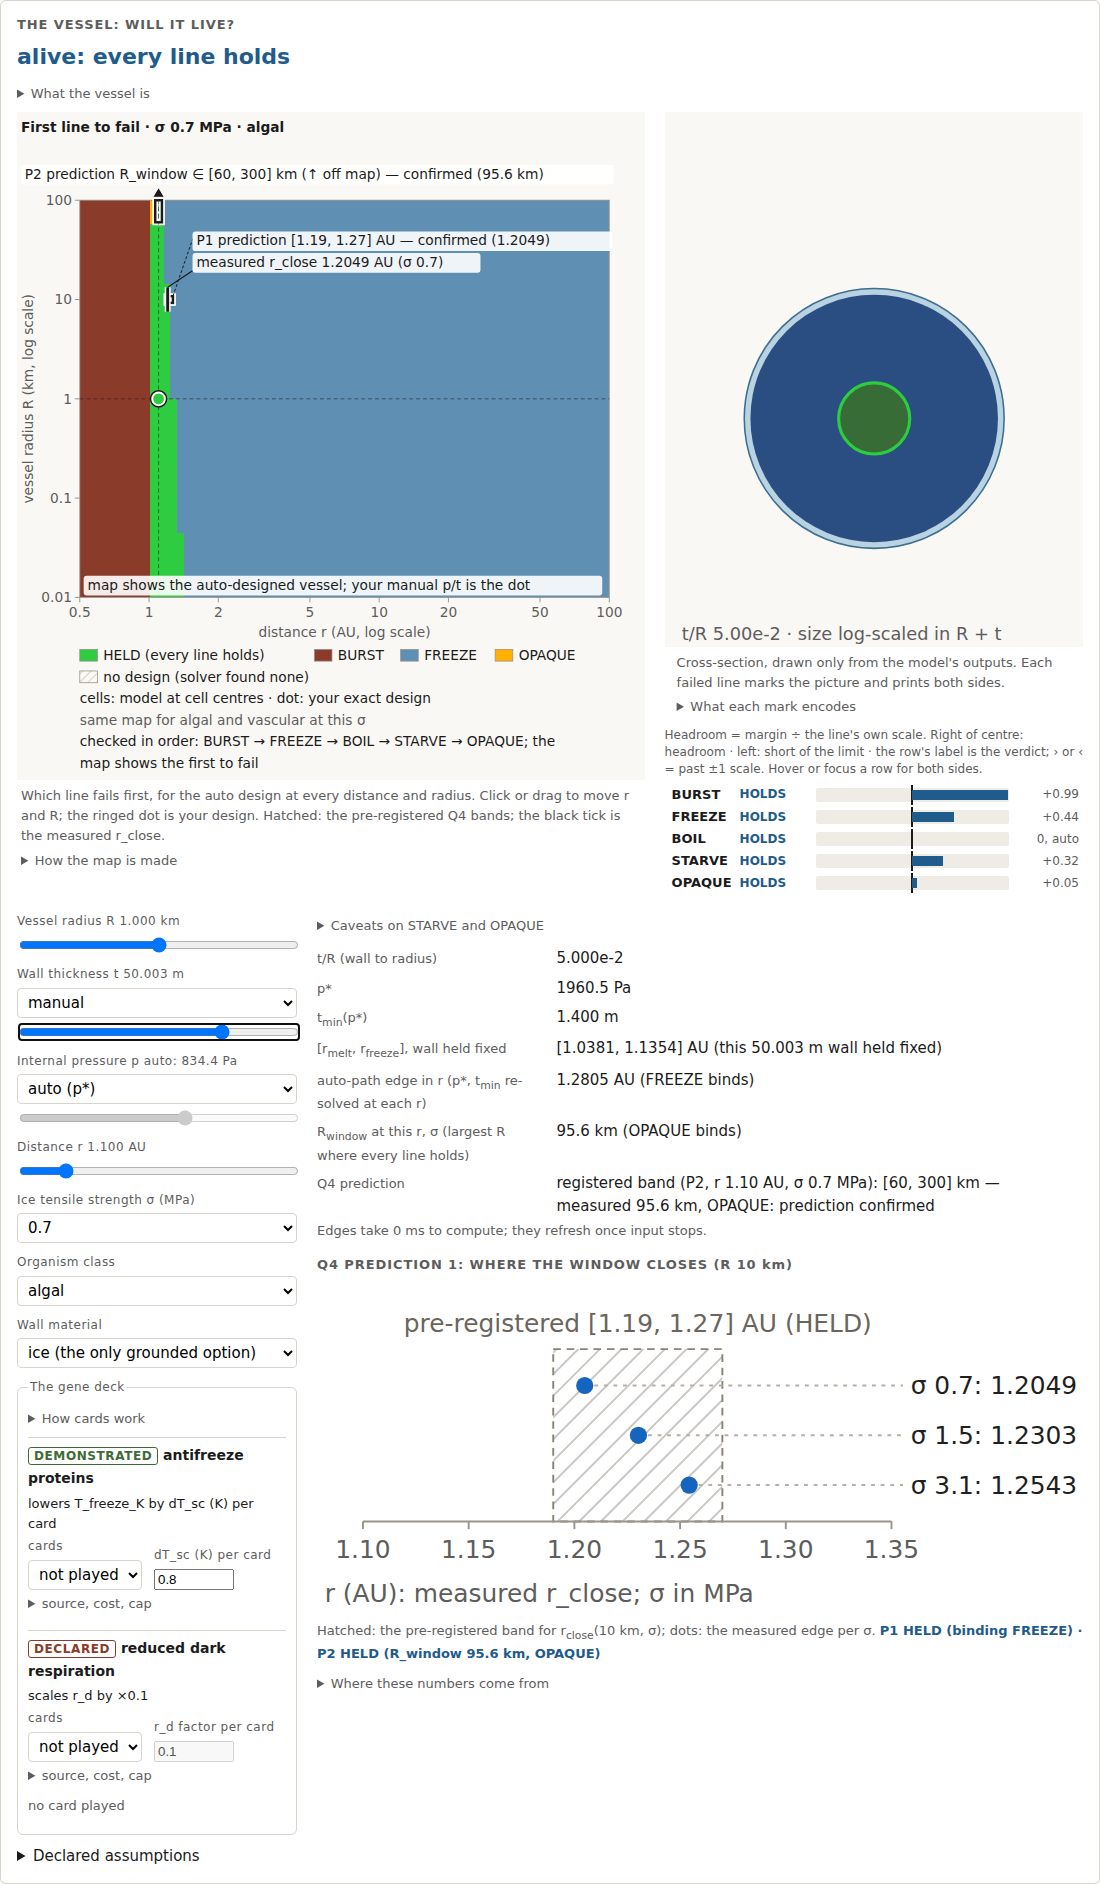
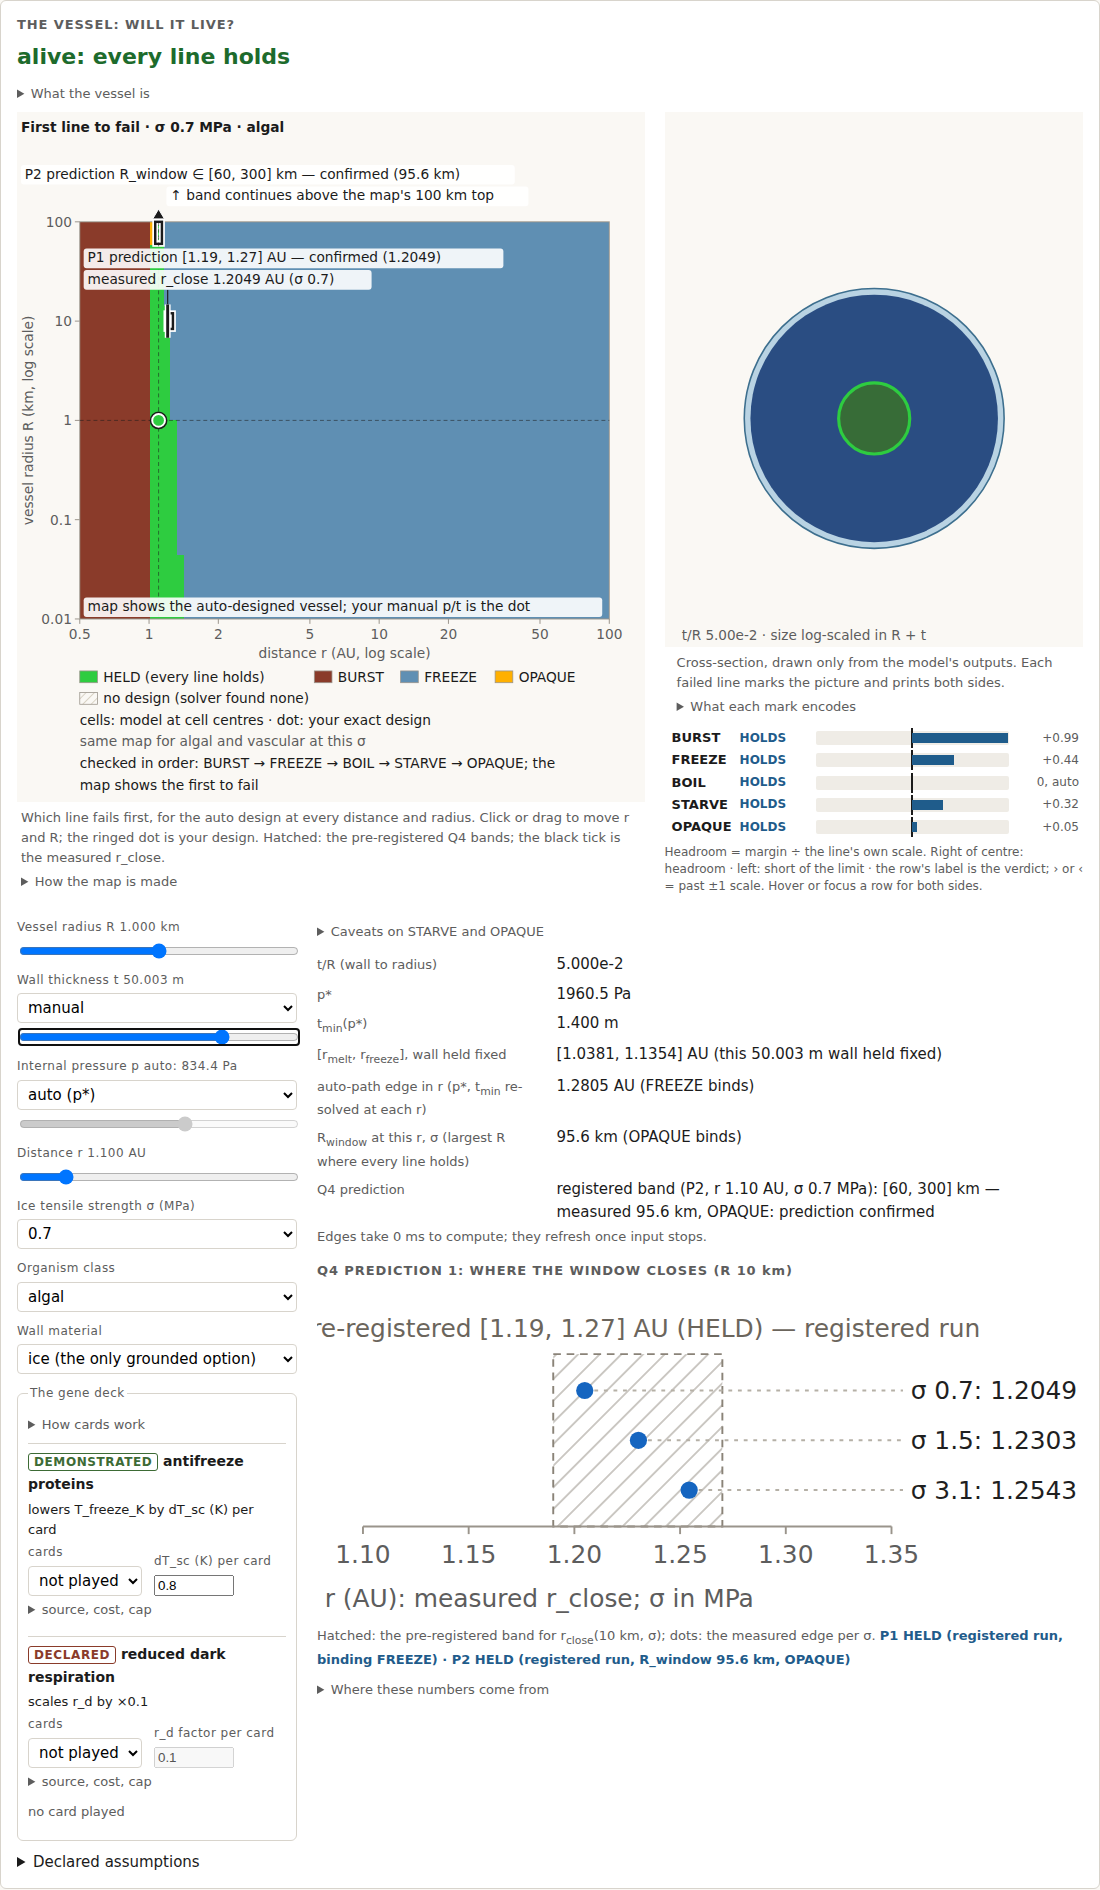
critic round 2 polish: passing verdict in dark HELD green; drawn: X (first to fail) replaces the repeated verdict; P2 label literal (band continues above the map's 100 km top, its own note above the frame); P1 box and r_close tick drawn over the dot, band labels over the crosshair and under the dot;

diff --git a/web/mapview.js b/web/mapview.js
@@ -27,9 +27,10 @@
   var NS = "http://www.w3.org/2000/svg";
   var W = 640,
     L = 64, // frame left: y tick labels and the rotated axis title sit left of it
-    T = 90, // frame top: the title line, the status line (live recompute), then the P2 label line
+    T = 112, // frame top: title, status line (live recompute), P2 label, P2 off-map note
     STATUS_Y = 44, // baseline of the recompute status, above the frame, never over the cells
-    P2_Y = 68, // baseline of the P2 label: its plate ends 16 px above the frame, clear of any dot mark
+    P2_Y = 68, // baseline of the P2 label
+    P2_NOTE_Y = 90, // baseline of the P2 off-map note: its plate ends 16 px above the frame, clear of any dot mark
     PW = 540,
     PH = 405, // 80 × 60 cells at 6.75 px square
     FS = 14, // >= 12 px on screen at the page's map width (smoke asserts it)
@@ -216,36 +217,37 @@
     el("rect", Object.assign({ id: id + "-halo", fill: "none", stroke: "#ffffff", "stroke-width": 6 }, box), g);
     el("rect", Object.assign({ id: id, fill: "url(#map-hatch-band)", stroke: INK, "stroke-width": 2.5 }, box), g);
   }
-  function drawBands(g, sigma_MPa, off) {
-    var dag = off ? " †" : "";
+  // g: the band layer; labels: over the dot's crosshair, under the dot; top: over the dot, so the
+  // registered marks stay visible where the dot sits on them
+  function drawBands(g, labels, top, sigma_MPa, off) {
+    var dag = off ? " · registered run †" : "";
     if (!bands) throw new Error("mapview: bands not set (verdict.js calls DysonMapView.setBands)");
     var p1 = bands.P1;
     var x0 = X(lg(p1.band_au[0])), x1 = X(lg(p1.band_au[1]));
     var yc = Y(lg(p1.R_km * 1000));
-    var h = PH / (NRR - 1);
-    outline(g, "map-p1", { x: x0, y: yc - h / 2, width: x1 - x0, height: h });
+    var h = Math.max(PH / (NRR - 1), 16); // the row, drawn at least 16 tall so the mark reads as a box
+    outline(top, "map-p1", { x: x0, y: yc - h / 2, width: x1 - x0, height: h });
     // the measured edge for this slice's sigma (the committed Q4 run), a tick across the row
     var k = -1;
     p1.sigma_MPa.forEach(function (s, n) { if (Math.abs(s - sigma_MPa) < 1e-9) k = n; });
     if (k < 0) throw new Error("mapview: no measured r_close for sigma " + sigma_MPa);
     var xr = X(lg(p1.r_close_au[k]));
-    var ly = yc - h / 2 - 30, lx = x1 + 24; // label plate: above the row, right of the band
-    el("line", { x1: xr, y1: yc - h / 2 - 9, x2: xr, y2: yc + h / 2 + 9, stroke: "#ffffff", "stroke-width": 6 }, g);
+    var ly = yc - h / 2 - 30, lx = L + 8; // label plates: above the row, from the frame's left edge
+    el("line", { x1: xr, y1: yc - h / 2 - 9, x2: xr, y2: yc + h / 2 + 9, stroke: "#ffffff", "stroke-width": 6 }, top);
     el("line", { id: "map-rclose", x1: xr, y1: yc - h / 2 - 9, x2: xr, y2: yc + h / 2 + 9, stroke: INK,
-      "stroke-width": 3 }, g);
-    el("line", { x1: xr, y1: yc - h / 2 - 9, x2: lx - 4, y2: ly + 4, stroke: INK, "stroke-width": 1.2 }, g);
-    haloText(g, { id: "map-rclose-label", x: lx, y: ly },
+      "stroke-width": 3 }, top);
+    el("line", { x1: xr, y1: yc - h / 2 - 9, x2: xr, y2: ly + 6, stroke: INK, "stroke-width": 1.2 }, g);
+    haloText(labels, { id: "map-rclose-label", x: lx, y: ly },
       "measured r_close " + p1.r_close_au[k].toFixed(4) + " AU (σ " + sigma_MPa + ")" + dag);
-    el("line", { x1: x1, y1: yc - h / 2, x2: lx - 4, y2: ly - FS - 14, stroke: INK, "stroke-width": 1,
-      "stroke-dasharray": "3 2" }, g);
-    haloText(g, { id: "map-p1-label", x: lx, y: ly - FS - 8 },
+    haloText(labels, { id: "map-p1-label", x: lx, y: ly - FS - 8 },
       "P1 prediction [" + p1.band_au[0] + ", " + p1.band_au[1] + "] AU — " + outcome(p1.verdict) +
         " (" + p1.r_close_au[k].toFixed(4) + ")" + dag);
     var p2 = bands.P2;
     if (Math.abs(sigma_MPa - p2.sigma_MPa) > 1e-9) return;
     var xc = X(lg(p2.r_au)), w = PW / (NR - 1);
-    var top = Math.max(T, Y(lg(p2.band_km[1] * 1000))), bot = Y(lg(p2.band_km[0] * 1000));
-    outline(g, "map-p2", { x: xc - w / 2, y: top, width: w, height: bot - top });
+    var bot = Y(lg(p2.band_km[0] * 1000));
+    var yt = Math.max(T, Y(lg(p2.band_km[1] * 1000)));
+    outline(g, "map-p2", { x: xc - w / 2, y: yt, width: w, height: bot - yt });
     var clipped = p2.band_km[1] * 1000 > Math.pow(10, GRR[1]);
     if (clipped) {
       // the band runs above the map's top edge: an arrow out of the frame at its column
@@ -253,13 +255,16 @@
         points: [[xc, T - 13], [xc - 6, T - 3], [xc + 6, T - 3]].map(function (q) { return q.join(","); }).join(" ") }, g);
       el("title", {}, m, "P2 band continues to " + p2.band_km[1] + " km, above the map's " +
         Math.pow(10, GRR[1] - 3) + " km top");
+      haloText(g, { id: "map-p2-offmap-note", x: xc + 12, y: P2_NOTE_Y },
+        "↑ band continues above the map's " + Math.pow(10, GRR[1] - 3) + " km top");
     }
     haloText(g, { id: "map-p2-label", x: 8, y: P2_Y },
-      "P2 prediction R_window ∈ [" + p2.band_km[0] + ", " + p2.band_km[1] + "] km" + (clipped ? " (↑ off map)" : "") +
+      "P2 prediction R_window ∈ [" + p2.band_km[0] + ", " + p2.band_km[1] + "] km" +
         " — " + outcome(p2.verdict) + " (" + p2.measured_km + " km)" + dag);
   }
 
-  function drawDot(g, state, slice) {
+  // cross: the crosshair layer, under the band labels; g: the dot's layer, over them
+  function drawDot(g, cross, state, slice) {
     var lr = lg(state.r), lR = lg(state.R);
     var loX = lr <= GR[0] + EDGE_TOL, hiX = lr >= GR[1] - EDGE_TOL;
     var loY = lR <= GRR[0] + EDGE_TOL, hiY = lR >= GRR[1] - EDGE_TOL;
@@ -268,9 +273,9 @@
     var clamped = loX || hiX || loY || hiY;
     var c = cellAt(state.r, state.R);
     el("line", { x1: L, y1: cy, x2: L + PW, y2: cy, stroke: INK, "stroke-opacity": 0.55, "stroke-width": 1,
-      "stroke-dasharray": "4 3", "data-mark": "crosshair" }, g);
+      "stroke-dasharray": "4 3", "data-mark": "crosshair" }, cross);
     el("line", { x1: cx, y1: T, x2: cx, y2: T + PH, stroke: INK, "stroke-opacity": 0.55, "stroke-width": 1,
-      "stroke-dasharray": "4 3", "data-mark": "crosshair" }, g);
+      "stroke-dasharray": "4 3", "data-mark": "crosshair" }, cross);
     if (!(state.verdict in PAL)) throw new Error("mapview: dot has no verdict class (" + state.verdict + ")");
     // the dot is the exact design: filled with the verdict's class, ringed dark over white so it
     // reads on any cell colour; the nearest cell's class is kept apart as data-cell-class
@@ -376,8 +381,11 @@
     var off = offRegistered(state);
     var rows = legend(el("g", { id: "map-legend" }, svg), slice, H0, state.sigma_MPa, off, sameMap(state));
     layers.bands = el("g", { id: "map-bands" }, svg);
-    drawBands(layers.bands, state.sigma_MPa, off);
+    layers.cross = el("g", { id: "map-cross" }, svg);
+    layers.labels = el("g", { id: "map-band-labels" }, svg);
     layers.over = el("g", { id: "map-over" }, svg);
+    layers.top = el("g", { id: "map-top" }, svg);
+    drawBands(layers.bands, layers.labels, layers.top, state.sigma_MPa, off);
     el("rect", { id: "map-hit", x: L, y: T, width: PW, height: PH, fill: "transparent",
       style: "cursor: crosshair" }, svg);
     svg.setAttribute("viewBox", "0 0 " + W + " " + (H0 + (rows - 1) * KEY_ROW + 12));
@@ -443,7 +451,8 @@
     built.layers.cells.setAttribute("data-source", stale ? "stale" : src.kind === "live" ? src.level : "precomputed");
     built.layers.title.textContent = titleText(state);
     clear(built.layers.over);
-    drawDot(built.layers.over, state, stale ? null : slice);
+    clear(built.layers.cross);
+    drawDot(built.layers.over, built.layers.cross, state, stale ? null : slice);
     drawStatus(built.layers.over, state, stale);
   }
 

diff --git a/web/index.html b/web/index.html
@@ -89,9 +89,11 @@
       /* headroom strip: one bar per line (verdict.js drawBars) */
       .headroom { margin-top: 10px; font-size: 13px; }
       .vessel > .vsummary { font-size: 22px; line-height: 1.3; margin: 2px 0 8px; }
+      /* a passing verdict: a dark variant of the map's HELD green, never the FREEZE blue */
+      .vessel > .vsummary.verdict-held { color: #1d6b2c; }
       .headroom #v-error:empty { display: none; }
       .headroom[data-error="true"] .hr-row { opacity: 0.4; }
-      .hr-key { color: var(--muted); font-size: 12px; line-height: 1.4; margin: 0 0 6px; }
+      .hr-key { color: var(--muted); font-size: 12px; line-height: 1.4; margin: 6px 0 0; }
       .hr-row { position: relative; display: grid; grid-template-columns: 62px 70px minmax(0, 1fr) 64px;
         gap: 6px; align-items: center; padding: 1px 4px; border-left: 3px solid transparent; border-radius: 3px; }
       .hr-row:hover, .hr-row:focus { background: #f1eee8; outline: none; }
@@ -178,8 +180,6 @@
             </figure>
             <div class="headroom" id="headroom">
               <p id="v-error" class="verdict-failed" role="alert"></p>
-              <p class="hr-key">Headroom = margin ÷ the line's own scale. Right of centre: headroom · left: short of
-                the limit · the row's label is the verdict; › or ‹ = past ±1 scale. Hover or focus a row for both sides.</p>
               <div class="hr-row" id="hr-BURST" data-line="BURST" tabindex="0" role="group" aria-labelledby="hr-BURST-name">
                 <span class="hr-name" id="hr-BURST-name">BURST</span>
                 <span class="hr-status" id="v-status-BURST"></span>
@@ -215,6 +215,8 @@
                 <span class="hr-val" id="hr-OPAQUE-val"></span>
                 <span class="hr-detail"><span id="v-cmp-OPAQUE"></span><br />margin <span class="num" id="v-margin-OPAQUE"></span><br /><span id="hr-OPAQUE-scale"></span></span>
               </div>
+              <p class="hr-key">Headroom = margin ÷ the line's own scale. Right of centre: headroom · left: short of
+                the limit · the row's label is the verdict; › or ‹ = past ±1 scale. Hover or focus a row for both sides.</p>
             </div>
           </div>
         </div>

diff --git a/web/picture.js b/web/picture.js
@@ -31,6 +31,8 @@
     MIN_BAND_PX = 3,
     FS = 17, // >= 12 px on screen at the page's figure width (smoke asserts it)
     LH = 19,
+    NOTE_FS = 13, // drawing notes (clamp, scale): quieter than the call-outs, still >= 12 px on screen
+    NOTE_LH = 16,
     PLATE_PAD = 10, // text inset inside a plate
     ORG_R = 34, // the organism disc: one size and one centre in every state
     KEEP_PAD = 3, // units every mark keeps clear of a plate
@@ -453,9 +455,10 @@
       var tip = pt(ro, (3 * Math.PI) / 4);
       el("line", { id: "pic-clamp-leader", x1: tip[0].toFixed(1), y1: tip[1].toFixed(1), x2: 40, y2: CLAMP_Y - 4,
         stroke: MUTED, "stroke-width": 1.2 }, svg);
-      var ct = el("text", { id: "pic-clamp", x: 16, y: CLAMP_Y + FS, "font-size": FS, fill: MUTED }, svg); // a drawing note, not a verdict
+      // a drawing note, not a verdict: quiet (NOTE_FS, grey), and the only place t/R is printed
+      var ct = el("text", { id: "pic-clamp", x: 16, y: CLAMP_Y + FS, "font-size": NOTE_FS, fill: MUTED }, svg);
       el("tspan", { x: 16, dy: 0 }, ct, "wall clamped to " + MIN_BAND_PX + " px;");
-      el("tspan", { x: 16, dy: LH }, ct,
+      el("tspan", { x: 16, dy: NOTE_LH }, ct,
         " true t/R " + fmtE(t / R) + " would draw " +
           (ro - riTrue < 0.005 ? "≪ 1 px" : (ro - riTrue).toFixed(2) + " px")); // never "0.00 px"
     }
@@ -466,8 +469,8 @@
       el("tspan", { x: 16, dy: 0 }, kt, "amber arc: f_photon reaching in;");
       el("tspan", { x: 16, dy: LH }, kt, " white tick: declared floor");
     }
-    el("text", { x: 16, y: H - 6, "font-size": FS, fill: MUTED }, svg,
-      "t/R " + fmtE(t / R) + " · size log-scaled in R + t");
+    el("text", { x: 16, y: H - 6, "font-size": NOTE_FS, fill: MUTED }, svg,
+      (clamped ? "" : "t/R " + fmtE(t / R) + " · ") + "size log-scaled in R + t");
   }
 
   function blank(msg) {

diff --git a/web/verdict.js b/web/verdict.js
@@ -402,7 +402,7 @@
       drawBar(n, res.report.lines[n], res, bad.length > 0 && bad[0] === n);
     });
     $("v-summary").textContent = bad.length
-      ? "VIOLATED: " + bad.join(", ") + " — the picture is " + bad[0]
+      ? "VIOLATED: " + bad.join(", ") + " — drawn: " + bad[0] + " (first to fail)"
       : "alive: every line holds";
     $("v-summary").className = "vsummary " + (bad.length ? "verdict-failed" : "verdict-held");
 
@@ -635,7 +635,7 @@
     mk("rect", { id: "q4-band-rect", x: x(b[0]), y: TOP, width: x(b[1]) - x(b[0]), height: BOT - TOP,
       fill: "url(#q4hatch)", stroke: "#8a8378", "stroke-dasharray": "4 3", "stroke-width": "1" });
     mk("text", { id: "q4-band-label", x: (x(b[0]) + x(b[1])) / 2, y: TOP - 9, "text-anchor": "middle",
-      "font-size": FS, fill: "#6b655c" }, "pre-registered [" + b[0] + ", " + b[1] + "] AU (" + Q4_RESULT.P1 + ")");
+      "font-size": FS, fill: "#6b655c" }, "pre-registered [" + b[0] + ", " + b[1] + "] AU (" + Q4_RESULT.P1 + ") — registered run");
     var LX = Math.max(Rt, x(b[1])) + 10; // the label column
     Q4_RESULT.r_close_au.forEach(function (r, i) {
       var y = TOP + 6 + ROW / 2 + i * ROW;
@@ -653,8 +653,8 @@
     mk("text", { x: 4, y: BOT + 42, "font-size": FS, fill: "#5d5d5d" },
       "r (AU): measured r_close; σ in MPa");
     var v = $("q4-verdict");
-    v.textContent = "P1 " + Q4_RESULT.P1 + " (binding FREEZE) · P2 " + Q4_RESULT.P2 +
-      " (R_window " + Q4_RESULT.R_window_km.toFixed(1) + " km, OPAQUE)";
+    v.textContent = "P1 " + Q4_RESULT.P1 + " (registered run, binding FREEZE) · P2 " + Q4_RESULT.P2 +
+      " (registered run, R_window " + Q4_RESULT.R_window_km.toFixed(1) + " km, OPAQUE)";
     v.className = Q4_RESULT.P1 === "HELD" ? "verdict-held" : "verdict-failed";
   }
   drawQ4Band();

diff --git a/tests/test_site_map.py b/tests/test_site_map.py
@@ -502,3 +502,49 @@ def test_same_map_note_is_in_the_legend_not_the_title(page):
     v = page["vascular"]["map"]
     assert "same map for algal and vascular" not in text_of(need(v, "map-title"))
     assert "same map for algal and vascular" in text_of(need(v, "map-legend"))
+
+
+# (Task 5 polish) ---------------------------------------------------------------------------------
+def test_p2_off_map_note_is_literal_and_clear_of_the_dot(page):
+    hi, d = page["high"]["map"], page["defaults"]["map"]
+    assert "off map" not in text_of(need(d, "map-p2-label"))
+    note = text_of(need(d, "map-p2-offmap-note"))
+    assert "continues above" in note and "100 km" in note, note
+    for tree in (hi, d):
+        box = plate_of(tree, "map-p2-offmap-note")
+        assert not overlap(box, marks_box(tree)) and not overlap(box, plate_of(tree, "map-p2-label")), box
+        assert box[3] <= frame(tree)[1] - 15, (box, frame(tree))
+
+
+def test_registered_marks_are_drawn_above_the_dot(page):
+    for name in ("r1.21", "defaults"):
+        order = [n["attrs"].get("id") for n in walk(page[name]["map"])]
+        k = order.index("map-dot")
+        assert order.index("map-rclose") > k and order.index("map-p1") > k, (name, k)
+
+
+def test_p1_band_mark_is_at_least_12_px_tall(page):
+    a = need(page["defaults"]["map"], "map-p1")["attrs"]
+    assert float(a["height"]) >= 13, a  # 640-unit viewBox renders at ~0.98 px per unit
+
+
+def test_off_registered_labels_say_registered_run(page):
+    for name in ("card", "albedo"):
+        for i in REGISTERED_LABELS:
+            t = text_of(need(page[name]["map"], i))
+            assert t.endswith("· registered run †"), (name, i, t)
+    # positive control: at the registered inputs they do not
+    for i in REGISTERED_LABELS:
+        assert "registered run" not in text_of(need(page["defaults"]["map"], i))
+
+
+def test_crosshair_runs_under_the_band_labels_and_the_dot_over_them(page):
+    # the P1/r_close label plates span the dot's column at the defaults (1 AU): the dashed
+    # crosshair must not strike through them, and they must not hide the dot
+    for name in ("defaults", "card", "r1.21"):
+        nodes = list(walk(page[name]["map"]))
+        order = [n["attrs"].get("id") for n in nodes]
+        cross = [k for k, n in enumerate(nodes) if n["attrs"].get("data-mark") == "crosshair"]
+        assert len(cross) == 2, (name, len(cross))  # positive control: the crosshair is drawn
+        lab = min(order.index("map-p1-label"), order.index("map-rclose-label"))
+        assert max(cross) < lab < order.index("map-dot"), (name, cross, lab, order.index("map-dot"))

diff --git a/tools/smoke_page.py b/tools/smoke_page.py
@@ -1057,6 +1057,16 @@ def exercise_headroom(page, label: str, shoot: bool) -> None:
                           m: m.getBoundingClientRect().top}; }"""
     )
     check(vs["px"] >= 20 and vs["s"] <= vs["m"], f"[{label}] verdict line above the map at heading size: {vs}")
+    # (Task 5 polish) a passing verdict is a dark green, not the FREEZE blue; the bar key follows its bars
+    col = page.evaluate(
+        """() => { const c = getComputedStyle(document.getElementById('v-summary')).color.match(/\\d+/g).map(Number);
+                  const k = document.querySelector('#headroom .hr-key').getBoundingClientRect().top;
+                  const b = document.getElementById('hr-OPAQUE').getBoundingClientRect().bottom;
+                  return {rgb: c.slice(0, 3), key: k, bars: b}; }"""
+    )
+    r_, g_, b_ = col["rgb"]
+    check(g_ > r_ + 30 and g_ > b_ + 30 and g_ < 140, f"[{label}] passing verdict line is dark green: rgb {col['rgb']}")
+    check(col["key"] >= col["bars"], f"[{label}] headroom key sits below its bars: {col}")
     if shoot:
         page.locator("#vessel").evaluate("e => e.scrollIntoView({block: 'start'})")
         page.screenshot(path=str(SHOT_DIR / "task-4-shot-defaults.png"))
@@ -1116,6 +1126,8 @@ def exercise_q4_band(page, label: str) -> None:
     check(f"({want.get('P1')})" in m["label"], f"[{label}] Q4 band label {m['label']!r} carries RESULTS.md P1 {want.get('P1')}")
     check(f"P1 {want.get('P1')}" in m["verdict"] and f"P2 {want.get('P2')}" in m["verdict"],
           f"[{label}] Q4 verdict line {m['verdict']!r} matches RESULTS.md {want}")
+    check(m["verdict"].count("(registered run") == 2 and "registered run" in m["label"],
+          f"[{label}] Q4 HELD words say they are the registered run: {m['verdict']!r} / {m['label']!r}")
     inside = [m["x0"] <= d["x"] <= m["x1"] for d in m["dots"]]
     check(inside == [True] * 3 if want.get("P1") == "HELD" else not all(inside),
           f"[{label}] measured marks sit where the verdict says relative to the band: {inside}")

diff --git a/tests/test_site_picture.py b/tests/test_site_picture.py
@@ -251,3 +251,18 @@ def test_clamp_note_is_neutral_and_says_sub_pixel_honestly(page):
     assert re.search(r"would draw 0\.\d\d px", text_of(d)), text_of(d)
     t = text_of(far)
     assert "would draw ≪ 1 px" in t and "0.00 px" not in t, t
+
+
+def test_clamp_note_prints_t_over_r_once_and_quietly(page):
+    # (Task 5 polish) the clamp note carries t/R; the footer does not repeat it; note at 13 px
+    for name in ("defaults", "far"):
+        pic = page[name]["pic"]
+        t = " ".join(text_of(n) for n in walk(pic) if n["tag"] == "text")  # what is drawn, not <title>
+        clamp = by_id(pic, "pic-clamp")
+        assert clamp is not None, name
+        m = re.search(r"t/R (\d\.\d\de-?\d+)", text_of(clamp))
+        assert m, text_of(clamp)
+        assert t.count("t/R " + m.group(1)) == 1, (name, t.count("t/R " + m.group(1)))
+        assert clamp["attrs"].get("font-size") == "13", name
+    # positive control: unclamped, the footer still prints t/R
+    assert "t/R " in text_of(page["t50"]["pic"])

diff --git a/tests/test_site_verdict.py b/tests/test_site_verdict.py
@@ -465,3 +465,18 @@ def test_verdict_line_heads_the_vessel_panel():
     assert 0 < h < s < m, (h, s, m)
     # positive control: the headroom bars still follow the map
     assert m < html.find('id="headroom"')
+
+
+def test_summary_names_what_is_drawn_without_repeating_the_verdict(page):
+    # (Task 5 polish) "VIOLATED: FREEZE — drawn: FREEZE (first to fail)", not "the picture is"
+    s = page["res"]["R10km_r1.21"]["summary"]
+    assert s == "VIOLATED: FREEZE — drawn: FREEZE (first to fail)", s
+    # positive control: a passing design keeps its line
+    assert page["res"]["defaults"]["summary"] == "alive: every line holds"
+
+
+def test_headroom_caption_follows_its_bars():
+    # (Task 5 polish) the key reads with the bars, below them, not above them at the fold
+    html = (ROOT / "web" / "index.html").read_text()
+    last_bar, key = html.find('id="hr-OPAQUE"'), html.find('class="hr-key"')
+    assert 0 < html.find('id="hr-BURST"') < last_bar < key, (last_bar, key)
